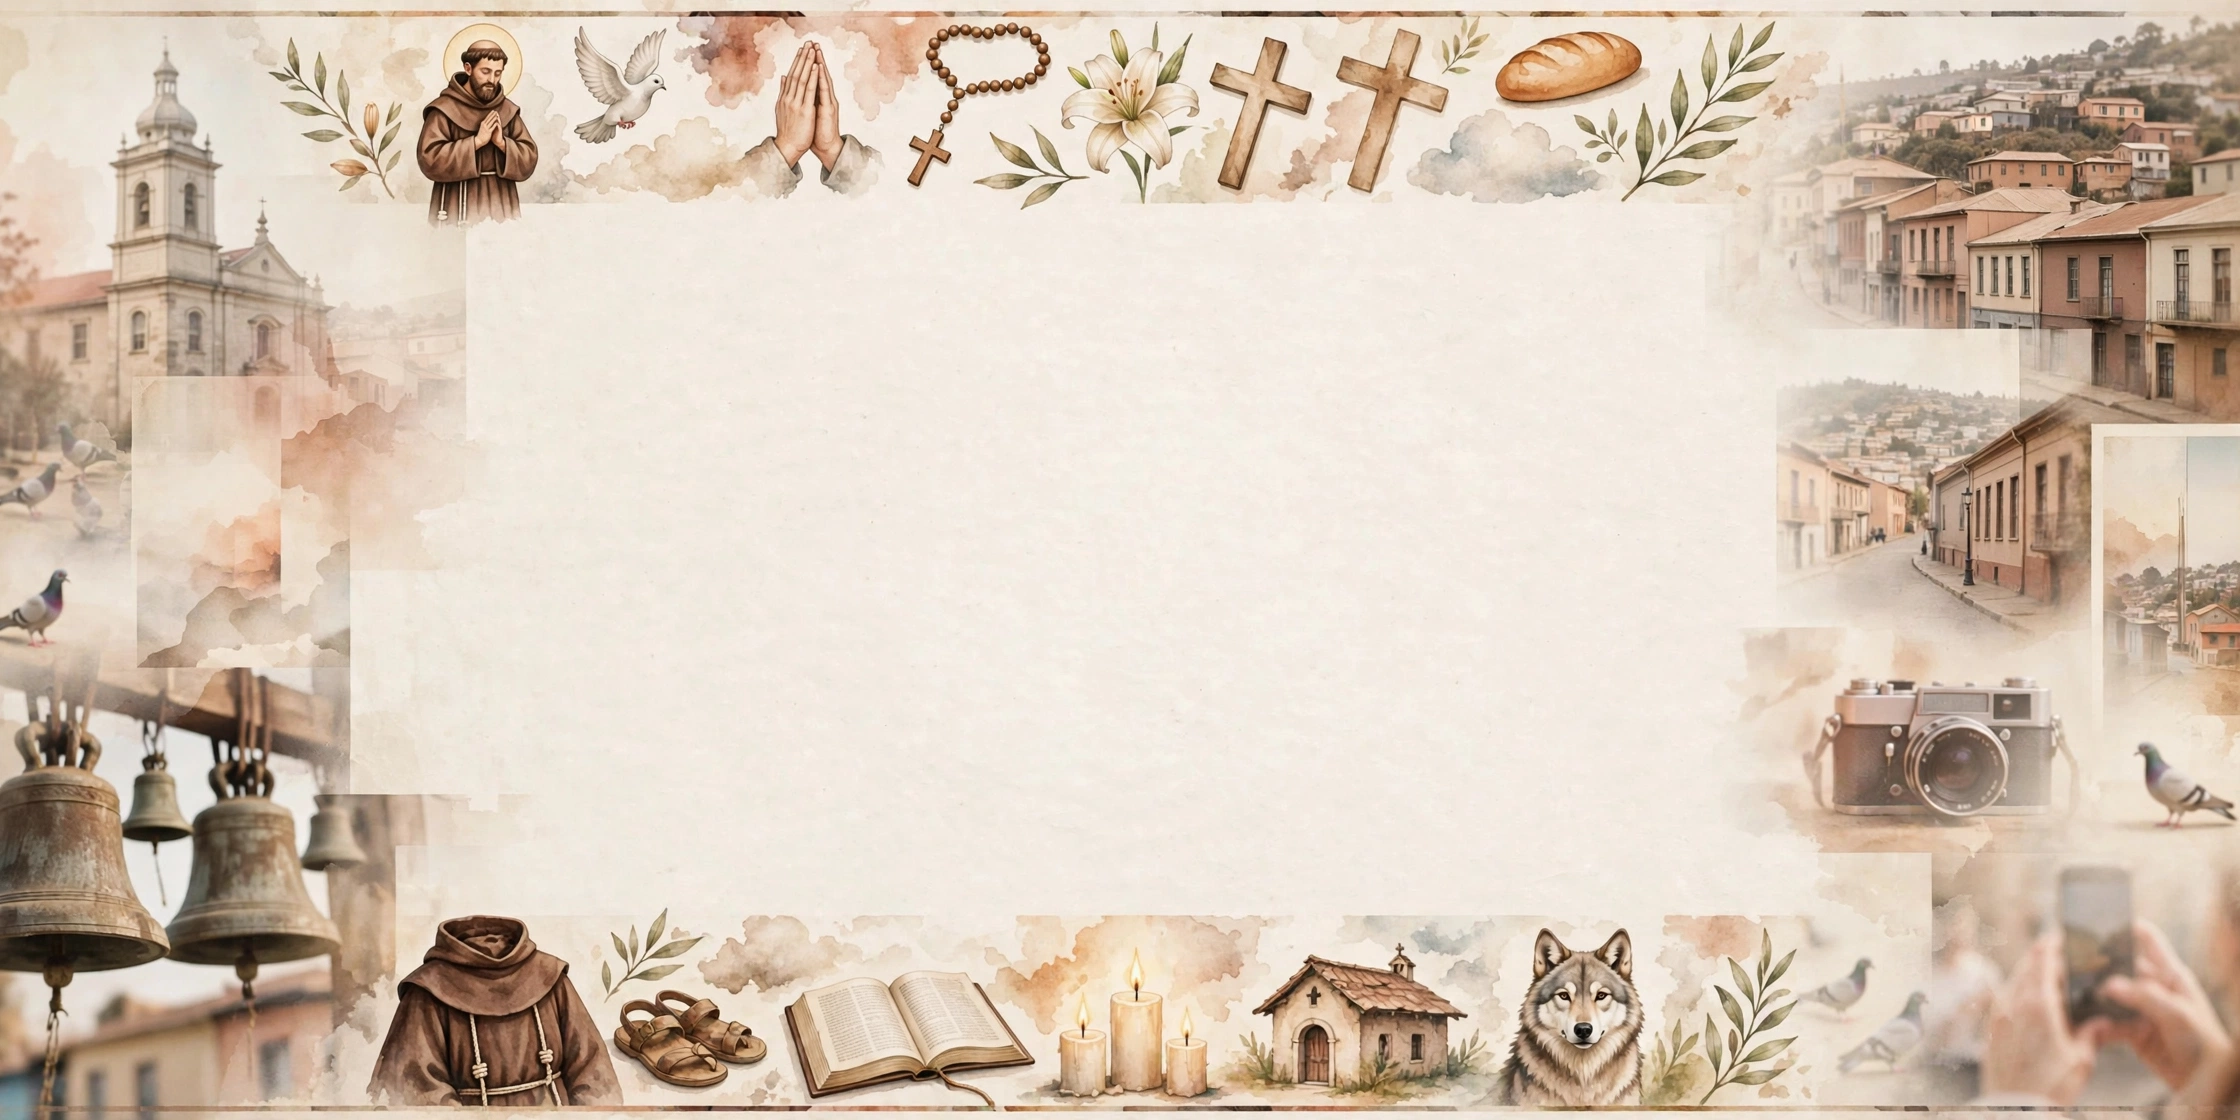
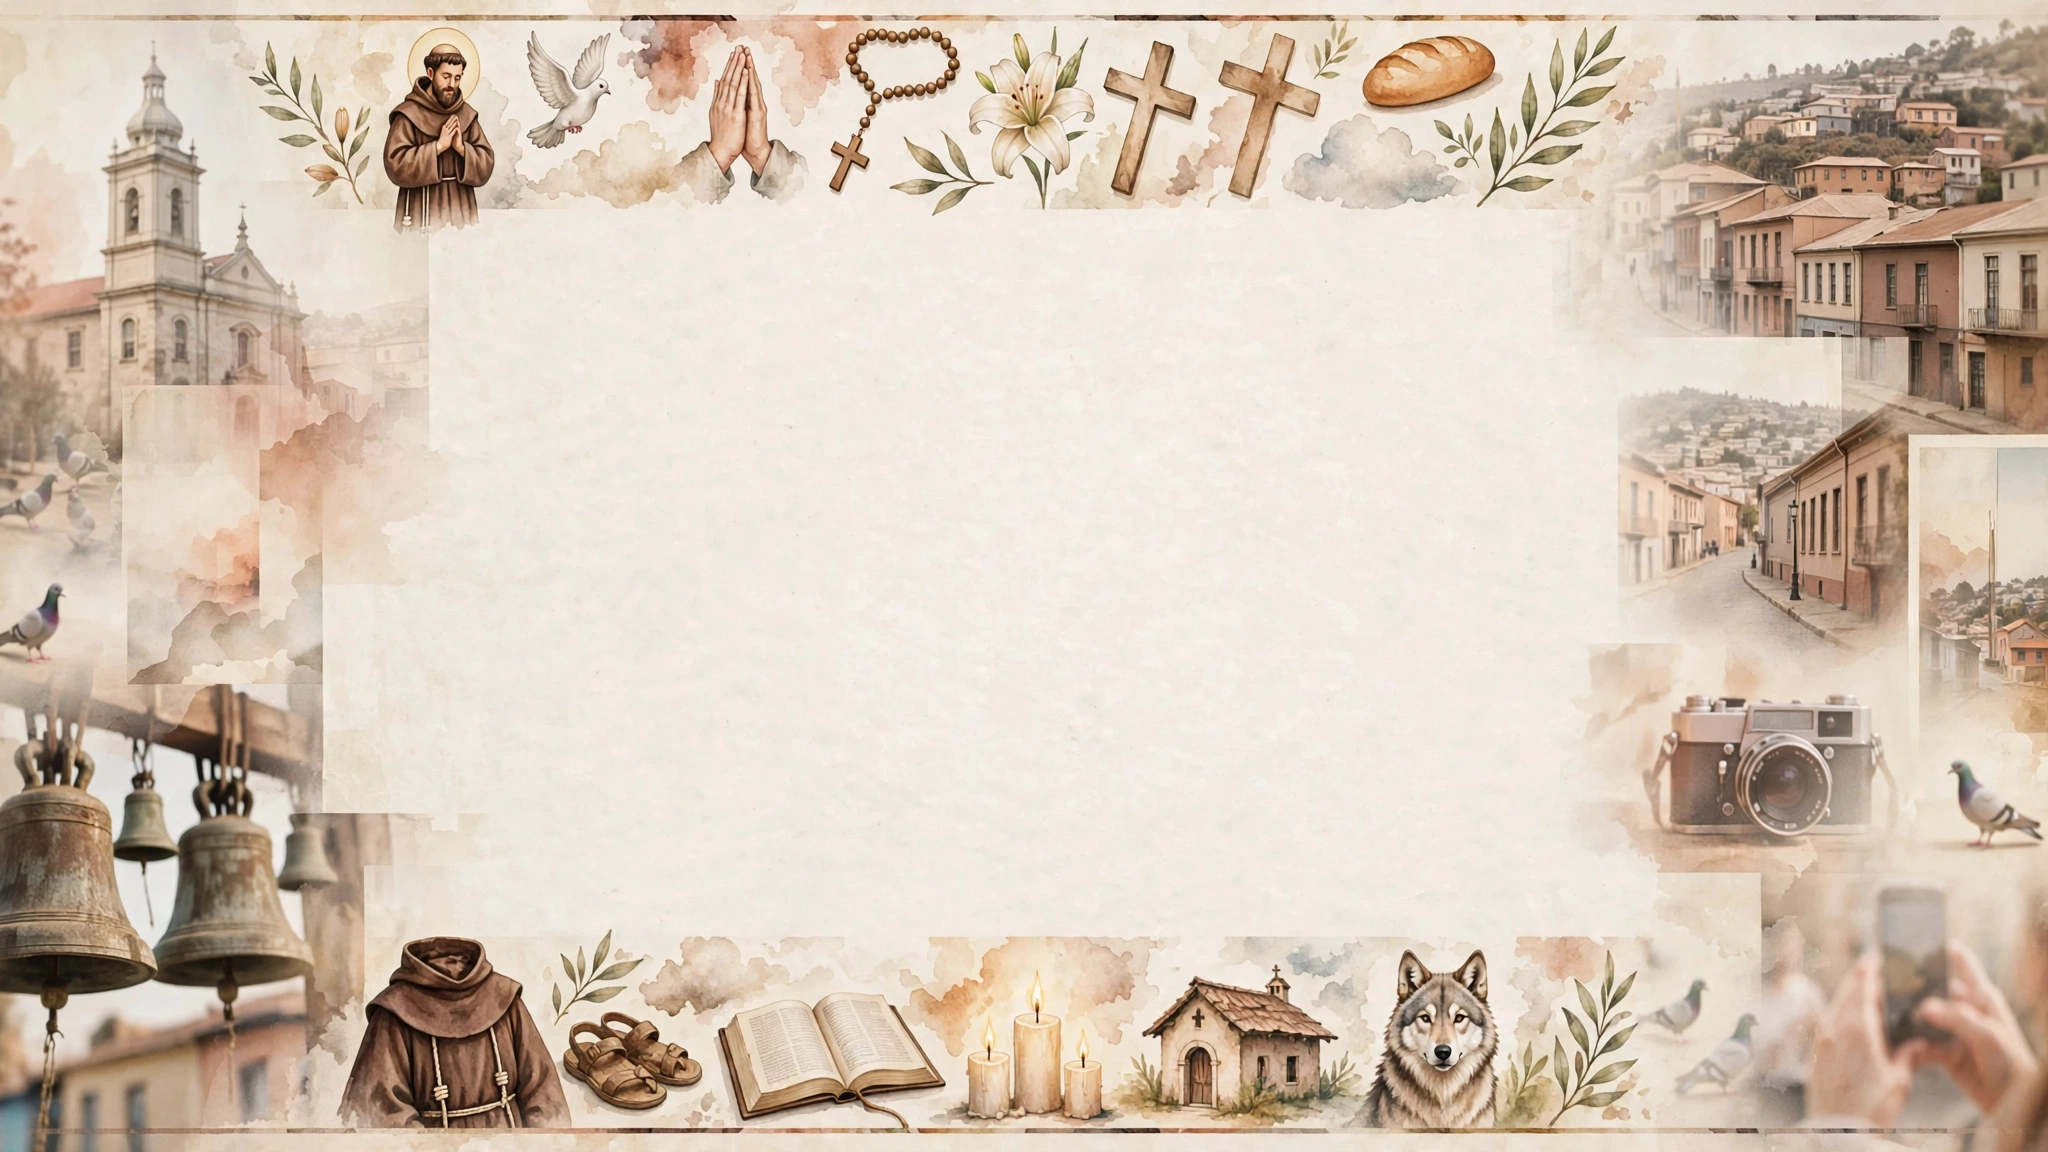
IG

diff --git a/app/components/InstagramFeed.tsx b/app/components/InstagramFeed.tsx
@@ -18,11 +18,11 @@ export default function InstagramFeed() {
   }, []);
 
   return (
-    <section className="py-20 relative bg-[#F5F0E7] bg-[url('/instagram-bg.jpg')] bg-cover bg-center bg-no-repeat min-h-[85vh] flex flex-col justify-center overflow-hidden">
+    // Fondo: Controlamos la altura con min-h-[700px] y usamos bg-cover
+    <section className="relative py-20 bg-[#F5F0E7] bg-[url('/instagram-bg.jpg')] bg-cover bg-center bg-no-repeat min-h-[700px] flex flex-col justify-center overflow-hidden">
       
-      {/* Quitamos el degradado blanco pesado para que el marco se vea completo. 
-          Solo dejamos una sombra radial muy sutil en el centro para que el texto resalte. */}
-      <div className="absolute inset-0 bg-[radial-gradient(ellipse_at_center,_var(--tw-gradient-stops))] from-[#F5F0E7]/80 via-transparent to-transparent pointer-events-none"></div>
+      {/* Capa para aclarar un poco el centro y asegurar que el texto se lea bien */}
+      <div className="absolute inset-0 bg-[#F5F0E7]/40 pointer-events-none"></div>
 
       <div className="max-w-7xl mx-auto px-4 sm:px-6 lg:px-8 relative z-10 w-full">
         
@@ -42,7 +42,7 @@ export default function InstagramFeed() {
           </h2>
         </motion.div>
 
-        {/* Contenedor del Feed - Hacemos que ocupe casi todo el ancho */}
+        {/* Contenedor del Feed - Volvemos al tamaño anterior (max-w-4xl) */}
         <motion.div
           initial={{ opacity: 0, y: 30 }}
           whileInView={{ opacity: 1, y: 0 }}
@@ -51,8 +51,7 @@ export default function InstagramFeed() {
           className="w-full flex justify-center"
         >
           <div
-            // Cambiamos max-w-5xl por max-w-7xl para que sea mucho más rectangular
-            className="w-full max-w-7xl instagram-feed-wrapper"
+            className="w-full max-w-4xl instagram-feed-wrapper"
             dangerouslySetInnerHTML={{
               __html: `
                 <blockquote 
@@ -68,7 +67,7 @@ export default function InstagramFeed() {
                     max-width: 100%;
                     width: 100%;
                     min-width: 0;
-                    box-shadow: 0 15px 35px rgba(89, 56, 47, 0.15);
+                    box-shadow: 0 10px 30px rgba(89, 56, 47, 0.15);
                   "
                 >
                 </blockquote>
@@ -96,13 +95,11 @@ export default function InstagramFeed() {
         </motion.div>
       </div>
 
-      {/* CSS CRÍTICO: Forzar a Instagram a ser ancho y alto */}
+      {/* CSS CRÍTICO: Quitamos el min-height de 600px para que no se estire */}
       <style jsx>{`
-        /* Forzamos al iframe a ocupar todo el ancho y le damos una altura mínima para que muestre más fotos */
         .instagram-feed-wrapper :global(iframe) {
           width: 100% !important;
           min-width: 100% !important;
-          min-height: 600px !important; /* Fuerza a que se estire hacia abajo */
           border-radius: 16px;
         }
         
